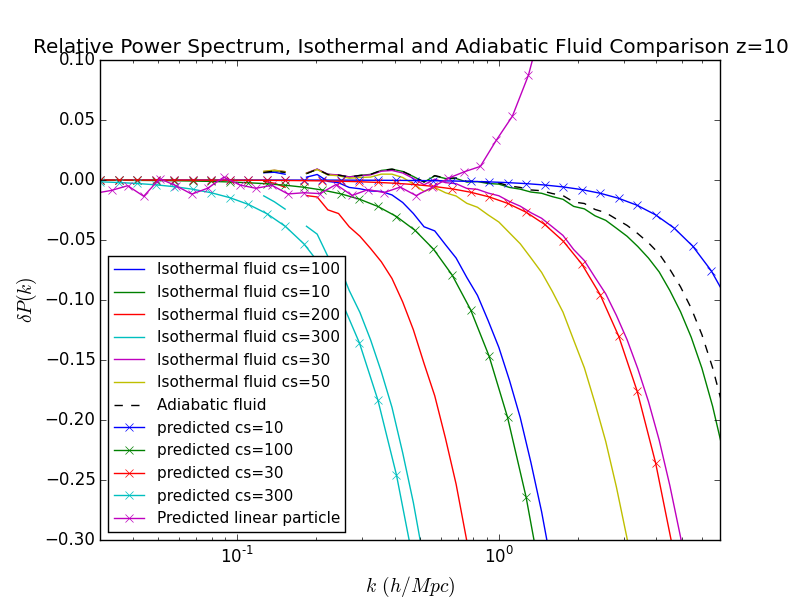
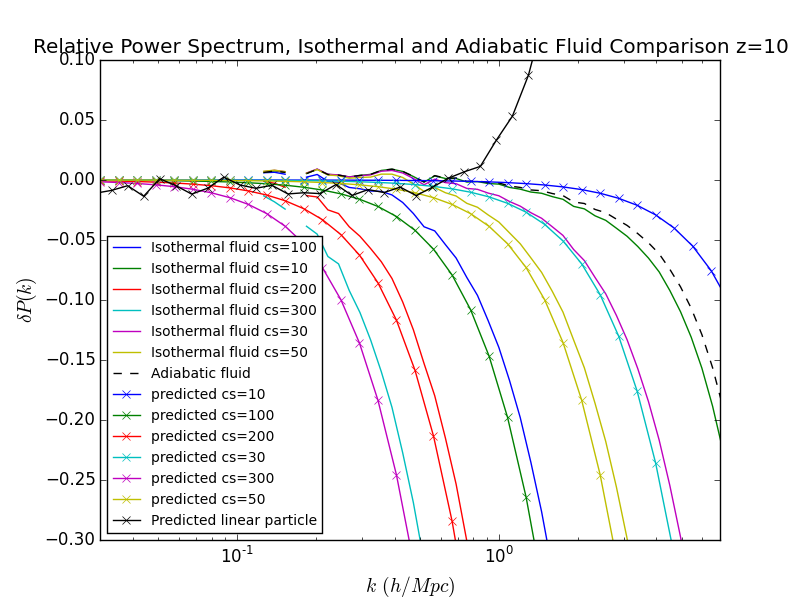
Updated z=10 results with cs=200 and cs=50 analytic predictions.

diff --git a/plots/isothermal/isothermal_fluid_low_adiabatic_normalized_particle_z10_minpressure.py b/plots/isothermal/isothermal_fluid_low_adiabatic_normalized_particle_z10_minpressure.py
@@ -10,6 +10,8 @@ isothermalpattern = re.compile(r'_iso(\d+)')
 testgrowthpattern = re.compile(r'testgrowthcs(\d+)')
 npattern = re.compile(r'_n(\d+)')
 
+soundspeeds = ['10','30','50','100','200','300']
+
 simtypes = ['fluid']
 for simtype in simtypes:
     params = [simtype,'b100','n1024','t0.005','h2','iso','z10_','z100']
@@ -22,7 +24,7 @@ for simtype in simtypes:
     for filename in filenames:
         if 'iso' in filename and 'minpressure16' in filename:
             isothermal = isothermalpattern.findall(filename)[0]
-            if isothermal in ['10','30','50','100','200','300']:
+            if isothermal in soundspeeds:
                 n = npattern.findall(filename)[0]
                 kvalues, ps = np.loadtxt(result_dir+filename, unpack=True)
                 ps = (ps - ps_base)/ps_base
@@ -35,7 +37,7 @@ for simtype in simtypes:
 filenames = [filename for filename in results if 'testgrowth' in filename]
 for filename in filenames:
     testgrowth = testgrowthpattern.findall(filename)[0]
-    if testgrowth in ['10','30','100','300']:
+    if testgrowth in soundspeeds:
         label = 'predicted cs='+testgrowth
         col1, kvalues, linearpower, col4, col5, sqrtsuppression = np.loadtxt(result_dir+filename, unpack=True)
         style = '-x'
@@ -55,7 +57,7 @@ plt.ylim([-0.3,0.1])
 plt.xlabel('$k \, (h/Mpc)$', fontsize=14)
 plt.ylabel('$\delta P(k)$', fontsize=14)
 plt.title('Relative Power Spectrum, Isothermal and Adiabatic Fluid Comparison z=10')
-plt.legend(numpoints=1, loc='best', fontsize=11)
+plt.legend(numpoints=1, loc='best', fontsize=10)
 plt.savefig('isothermal_fluid_low_adiabatic_normalized_particle_z10_minpressure.png')
 
 plt.show()
